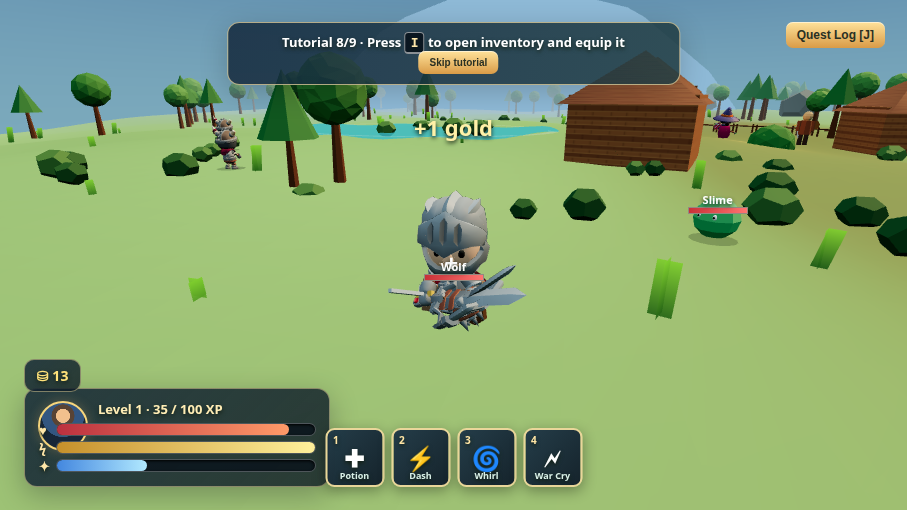
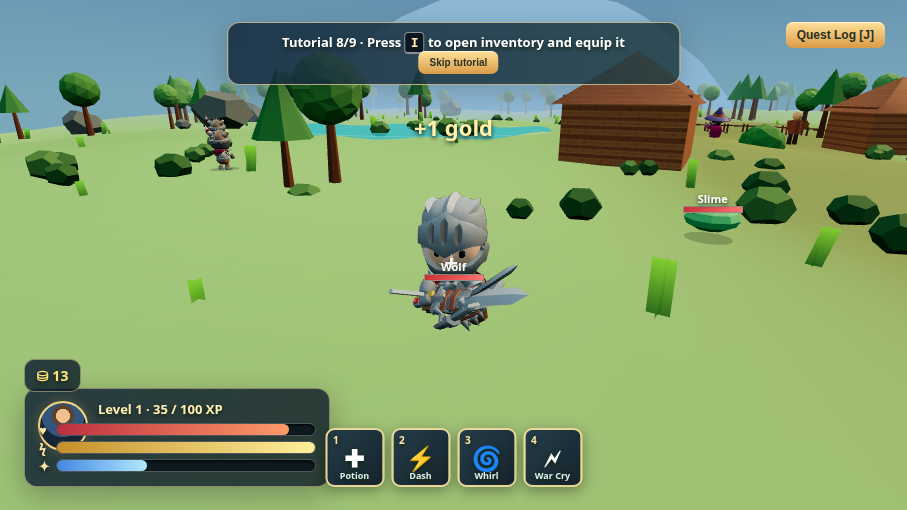
perf: stable headless soak — low pixel ratio + player fill light gated for webdriver

diff --git a/src/main.js b/src/main.js
@@ -5,7 +5,7 @@ import {initSDK,saveData,loadData,getMuteSetting,happytime} from './sdk.js';
 
 const canvas=document.querySelector('#game'), hud=document.querySelector('#hud');
 const renderer=new THREE.WebGLRenderer({canvas,antialias:true,powerPreference:'high-performance'});
-renderer.setPixelRatio(Math.min(devicePixelRatio,2)); renderer.setSize(innerWidth,innerHeight); renderer.shadowMap.enabled=!navigator.webdriver; renderer.shadowMap.type=THREE.PCFSoftShadowMap; renderer.outputColorSpace=THREE.SRGBColorSpace; renderer.toneMapping=THREE.ACESFilmicToneMapping; renderer.toneMappingExposure=1.06;
+renderer.setPixelRatio(navigator.webdriver&&!location.search.includes('capture=1')?.6:Math.min(devicePixelRatio,2)); renderer.setSize(innerWidth,innerHeight); renderer.shadowMap.enabled=!navigator.webdriver; renderer.shadowMap.type=THREE.PCFSoftShadowMap; renderer.outputColorSpace=THREE.SRGBColorSpace; renderer.toneMapping=THREE.ACESFilmicToneMapping; renderer.toneMappingExposure=1.06;
 const scene=new THREE.Scene(); scene.background=new THREE.Color('#8eb9d6'); scene.fog=new THREE.Fog('#a9c5d3',50,148);
 const camera=new THREE.PerspectiveCamera(58,innerWidth/innerHeight,.1,180); const clock=new THREE.Clock();
 const hemi=new THREE.HemisphereLight('#d5efff','#26411f',2.15);scene.add(hemi); const sun=new THREE.DirectionalLight('#ffd49a',3.1); sun.position.set(-55,64,28);sun.castShadow=true;sun.shadow.mapSize.set(1536,1536);sun.shadow.camera.left=-80;sun.shadow.camera.right=80;sun.shadow.camera.top=80;sun.shadow.camera.bottom=-80;sun.shadow.bias=-.00025;scene.add(sun);
@@ -77,7 +77,7 @@ function telegraphFX(pos,r,life,color,disc=false){const m=mesh(disc?new THREE.Ci
 function updateTeles(dt){for(let i=state.teles.length-1;i>=0;i--){const q=state.teles[i];q.life-=dt;q.m.material.opacity=.45+.4*Math.abs(Math.sin(performance.now()*.012));if(q.life<=0){q.m.removeFromParent();q.m.material.dispose();state.teles.splice(i,1)}}
  for(let i=state.projs.length-1;i>=0;i--){const q=state.projs[i];q.t+=dt/q.dur;const p=q.from.clone().lerp(q.to,Math.min(1,q.t));p.y+=Math.sin(Math.min(1,q.t)*Math.PI)*6;q.m.position.copy(p);if(q.t>=1){burst(q.to,'#8a93a8',10,4);if(player.position.distanceTo(q.to)<2.2)hitPlayer(20);state.shake=.35;sound('hit');q.m.removeFromParent();state.projs.splice(i,1)}}}
 const fadeEl=document.querySelector('#fade'),caveLabelEl=document.querySelector('#caveLabel');
-function setMap(m){state.map=m;const inCave=m==='cave';world.visible=!inCave;cave.visible=inCave;skyG.visible=!inCave;torch.visible=inCave;pfill.visible=inCave;if(state.fireLight)state.fireLight.visible=!inCave;sun.intensity=inCave?0:3.1;hemi.intensity=inCave?.95:2.15;hemi.color.set(inCave?'#4a5d85':'#d5efff');hemi.groundColor.set(inCave?'#1a2233':'#26411f');scene.background=new THREE.Color(inCave?'#0a1020':'#8eb9d6');scene.fog.color.set(inCave?'#101a30':'#a9c5d3');scene.fog.near=inCave?18:50;scene.fog.far=inCave?72:148;occluders=null;document.querySelector('#bossbar').style.display='none';for(const e of state.mobs){if(e.boss)e.barShown=false;e.root.visible=!e.dead&&e.map===m;if(e.map!==m&&e.uiShown!==false){e.uiShown=false;e.ui.style.display='none'}}for(const l of state.loot)l.root.visible=l.map===m;if(player.parent!==(inCave?cave:world)){(inCave?cave:world).add(player)}caveLabelEl.style.display='none';const tE=document.querySelector('#toast');tE.style.opacity=0;clearTimeout(toast._t);save()}
+function setMap(m){state.map=m;const inCave=m==='cave';world.visible=!inCave;cave.visible=inCave;skyG.visible=!inCave;torch.visible=inCave;pfill.visible=inCave&&(!navigator.webdriver||location.search.includes('capture=1'));if(state.fireLight)state.fireLight.visible=!inCave;sun.intensity=inCave?0:3.1;hemi.intensity=inCave?.95:2.15;hemi.color.set(inCave?'#4a5d85':'#d5efff');hemi.groundColor.set(inCave?'#1a2233':'#26411f');scene.background=new THREE.Color(inCave?'#0a1020':'#8eb9d6');scene.fog.color.set(inCave?'#101a30':'#a9c5d3');scene.fog.near=inCave?18:50;scene.fog.far=inCave?72:148;occluders=null;document.querySelector('#bossbar').style.display='none';for(const e of state.mobs){if(e.boss)e.barShown=false;e.root.visible=!e.dead&&e.map===m;if(e.map!==m&&e.uiShown!==false){e.uiShown=false;e.ui.style.display='none'}}for(const l of state.loot)l.root.visible=l.map===m;if(player.parent!==(inCave?cave:world)){(inCave?cave:world).add(player)}caveLabelEl.style.display='none';const tE=document.querySelector('#toast');tE.style.opacity=0;clearTimeout(toast._t);save()}
 function transition(fn){fadeEl.style.opacity=1;setTimeout(()=>{fn();setTimeout(()=>fadeEl.style.opacity=0,120)},520)}
 function questEnterCave(){const q=QUESTS[state.quest.id];if(q&&q.enter&&!state.quest.done){state.quest.progress=1;state.quest.done=true;toast(`Quest complete: ${q.name}! Return to Mentor Arlen`);save()}}
 function enterCave(force=false){if(state.map==='cave')return false;if(!force&&state.quest.id<6&&state.level<5){toast('Too dangerous — reach level 5');return false}transition(()=>{setMap('cave');state.pos.set(CAVE_SPAWN.x,caveHeight(CAVE_SPAWN.x,CAVE_SPAWN.z),CAVE_SPAWN.z);state.vel.set(0,0,0);player.position.copy(state.pos);spawnCaveBoss();toast('The Hollow Depths');sound('start');questEnterCave()});return true}
